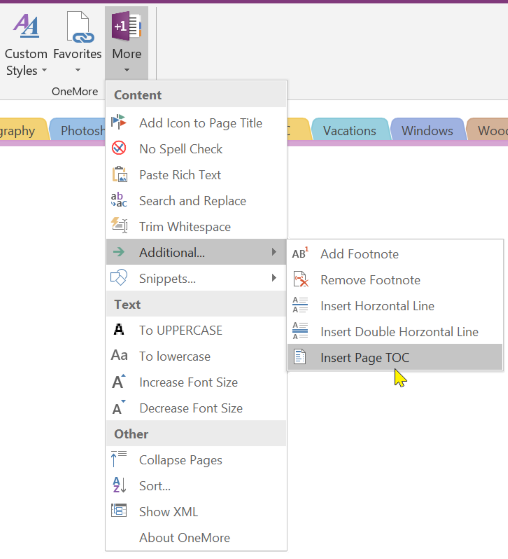
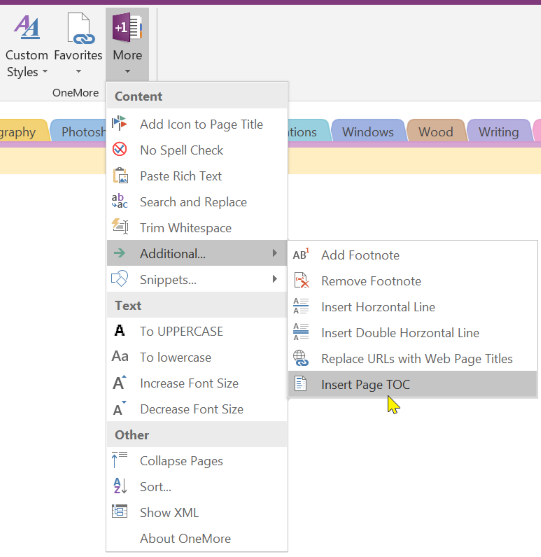
Add replace URLs command

Changed region(s): [[0.0, 0.0, 1.0, 1.0]]

diff --git a/OneMore/AddInCommands.cs b/OneMore/AddInCommands.cs
@@ -9,7 +9,8 @@ namespace River.OneMoreAddIn
 {
 	using Microsoft.Office.Core;
 
-	public partial class AddIn
+
+    public partial class AddIn
 	{
 
 		public void AddFootnoteCmd(IRibbonControl control)
@@ -24,7 +25,6 @@ namespace River.OneMoreAddIn
 
 		public void ApplyStyleCmd(IRibbonControl control, string selectedId, int selectedIndex)
 		{
-			//logger.WriteLine($"StyleGallerySelected2({control.Id}, {selectedId}, {selectedIndex})");
 			factory.GetCommand<ApplyStyleCommand>().Execute(selectedIndex);
 		}
 
@@ -55,15 +55,19 @@ namespace River.OneMoreAddIn
 			ribbon.Invalidate(); // TODO: only if changes?
 		}
 
-		public void NewStyleCmd(IRibbonControl control)
-		{
-			factory.GetCommand<NewStyleCommand>().Execute();
-			ribbon.Invalidate(); // TODO: only if changes?
-		}
-
 		public void IncreaseFontSizeCmd(IRibbonControl control)
 		{
 			factory.GetCommand<AlterSizeCommand>().Execute(1);
+		}
+
+		public void InsertBlueStatusCmd(IRibbonControl control)
+		{
+			factory.GetCommand<InsertStatusCommand>().Execute(StatusColor.Blue);
+		}
+
+		public void InsertCodeBlockCmd(IRibbonControl control)
+		{
+			factory.GetCommand<InsertCodeBlockCommand>().Execute();
 		}
 
 		public void InsertDoubleHorizontalLineCmd(IRibbonControl control)
@@ -76,44 +80,9 @@ namespace River.OneMoreAddIn
 			factory.GetCommand<InsertExpandCommand>().Execute();
 		}
 
-		public void InsertHorizontalLineCmd(IRibbonControl control)
-		{
-			factory.GetCommand<InsertLineCommand>().Execute('─');
-		}
-
-		public void InsertCodeBlockCmd(IRibbonControl control)
-		{
-			factory.GetCommand<InsertCodeBlockCommand>().Execute();
-		}
-
-		public void InsertInfoBlockCmd(IRibbonControl control)
-		{
-			factory.GetCommand<InsertInfoBlockCommand>().Execute(false);
-		}
-
-		public void InsertWarningBlockCmd(IRibbonControl control)
-		{
-			factory.GetCommand<InsertInfoBlockCommand>().Execute(true);
-		}
-
-		public void InsertTocCmd(IRibbonControl control)
-		{
-			factory.GetCommand<InsertTocCommand>().Execute();
-		}
-
 		public void InsertGrayStatusCmd(IRibbonControl control)
 		{
 			factory.GetCommand<InsertStatusCommand>().Execute(StatusColor.Gray);
-		}
-
-		public void InsertRedStatusCmd(IRibbonControl control)
-		{
-			factory.GetCommand<InsertStatusCommand>().Execute(StatusColor.Red);
-		}
-
-		public void InsertYellowStatusCmd(IRibbonControl control)
-		{
-			factory.GetCommand<InsertStatusCommand>().Execute(StatusColor.Yellow);
 		}
 
 		public void InsertGreenStatusCmd(IRibbonControl control)
@@ -121,9 +90,45 @@ namespace River.OneMoreAddIn
 			factory.GetCommand<InsertStatusCommand>().Execute(StatusColor.Green);
 		}
 
-		public void InsertBlueStatusCmd(IRibbonControl control)
+		public void InsertHorizontalLineCmd(IRibbonControl control)
 		{
-			factory.GetCommand<InsertStatusCommand>().Execute(StatusColor.Blue);
+			factory.GetCommand<InsertLineCommand>().Execute('─');
+		}
+
+		public void InsertInfoBlockCmd(IRibbonControl control)
+		{
+			factory.GetCommand<InsertInfoBlockCommand>().Execute(false);
+		}
+
+		public void InsertRedStatusCmd(IRibbonControl control)
+		{
+			factory.GetCommand<InsertStatusCommand>().Execute(StatusColor.Red);
+		}
+
+		public void InsertTocCmd(IRibbonControl control)
+		{
+			factory.GetCommand<InsertTocCommand>().Execute();
+		}
+
+		public void InsertWarningBlockCmd(IRibbonControl control)
+		{
+			factory.GetCommand<InsertInfoBlockCommand>().Execute(true);
+		}
+
+		public void InsertYellowStatusCmd(IRibbonControl control)
+		{
+			factory.GetCommand<InsertStatusCommand>().Execute(StatusColor.Yellow);
+		}
+
+		public void NameUrlsCmd(IRibbonControl control)
+		{
+			factory.GetCommand<NameUrlsCommand>().Execute();
+		}
+
+		public void NewStyleCmd(IRibbonControl control)
+		{
+			factory.GetCommand<NewStyleCommand>().Execute();
+			ribbon.Invalidate(); // TODO: only if changes?
 		}
 
 		public void NoSpellCheckCmd(IRibbonControl control)

diff --git a/OneMore/Commands/NameUrlsCommand.cs b/OneMore/Commands/NameUrlsCommand.cs
@@ -1,0 +1,142 @@
+//************************************************************************************************
+// Copyright © 2016 Steven M Cohn.  All rights reserved.
+//************************************************************************************************
+
+namespace River.OneMoreAddIn
+{
+	using System;
+	using System.Linq;
+    using System.Net;
+    using System.Net.Http;
+    using System.Text;
+    using System.Text.RegularExpressions;
+    using System.Web;
+    using System.Xml.Linq;
+
+
+	internal class NameUrlsCommand : Command
+	{
+		private const int LineCharCount = 100;
+
+
+		public NameUrlsCommand() : base()
+		{
+		}
+
+
+		public void Execute()
+		{
+			try
+			{
+				Page page;
+				using (var manager = new ApplicationManager())
+				{
+					page = new Page(manager.CurrentPage());
+				}
+
+				if (NameUrls(page))
+				{
+					using (var manager = new ApplicationManager())
+					{
+						manager.UpdatePageContent(page.Root);
+					}
+				}
+			}
+			catch (Exception exc)
+			{
+				logger.WriteLine($"Error executing {nameof(NameUrlsCommand)}", exc);
+			}
+		}
+
+
+		private bool NameUrls(Page page)
+		{
+			int count = 0;
+			var regex = new Regex(@"<a\s+href=", RegexOptions.Compiled);
+
+			var elements = page.Root.DescendantNodes().OfType<XCData>()
+				.Where(c => regex.IsMatch(c.Value))
+				.Select(e => e.Parent)
+				.ToList();
+
+			if (elements?.Count > 0)
+			{
+				foreach (var element in elements)
+				{
+					var cdata = element.GetCData();
+
+					var wrapper = cdata.GetWrapper();
+					var a = wrapper.Element("a");
+					if (a != null)
+					{
+						var href = a.Attribute("href")?.Value;
+						if (href != null)
+						{
+							if (href == a.Value)
+							{
+								var title = FetchPageTitle(href);
+								if (title != null)
+								{
+									a.Value = HttpUtility.HtmlDecode(title);
+									cdata.ReplaceWith(wrapper.GetInnerXml());
+									count++;
+								}
+							}
+						}
+					}
+				}
+			}
+
+			return count > 0;
+		}
+
+
+		private string FetchPageTitle(string url)
+		{
+			string title = null;
+
+			using (var client = new HttpClient())
+			{
+				ServicePointManager.SecurityProtocol = 
+					SecurityProtocolType.Tls12 | SecurityProtocolType.Tls11 | SecurityProtocolType.Tls;
+
+				// yes, yes, i know, never use Result....
+				using (var response = client.GetAsync(new Uri(url, UriKind.Absolute)).Result)
+				{
+					using (var stream = response.Content.ReadAsStreamAsync().Result)
+					{
+						// compiled regex to check for <title></title> block
+						var pattern = new Regex(@"<title>\s*(.+?)\s*</title>",
+							RegexOptions.Compiled | RegexOptions.IgnoreCase);
+
+						var chunkSize = 512;
+						var buffer = new byte[chunkSize];
+						var contents = "";
+						var length = 0;
+
+						while ((title == null) && (length = stream.Read(buffer, 0, chunkSize)) > 0)
+						{
+							// convert the byte-array to a string and add it to the rest of the
+							// contents that have been downloaded so far
+							contents += Encoding.UTF8.GetString(buffer, 0, length);
+
+							var match = pattern.Match(contents);
+							if (match.Success)
+							{
+								// we found a <title></title> match
+								title = match.Groups[1].Value.ToString();
+							}
+							else if (contents.Contains("</head>"))
+							{
+								// reached end of head-block; no title found
+								title = string.Empty;
+							}
+						}
+					}
+				}
+			}
+
+			return title;
+		}
+	}
+}

diff --git a/README.md b/README.md
@@ -24,6 +24,7 @@ A OneNote add-in with powerful yet simple and effective features including:
 * Insert [status labels](#exStatusLabels) similar to the Confluence status macro
 * Insert [collapsable sections](#expand) to hide secondary or sensitive information
 * Increase/Decrease the font size of all content on the current page
+* Replace hyperlinked URLs with their Web page titles
 * [Sort pages, sections, or notebooks](#other)
 * Trim trailing whitespace from selected text
 * View and edit the [internal OneNote XML](#xml) of the current page
